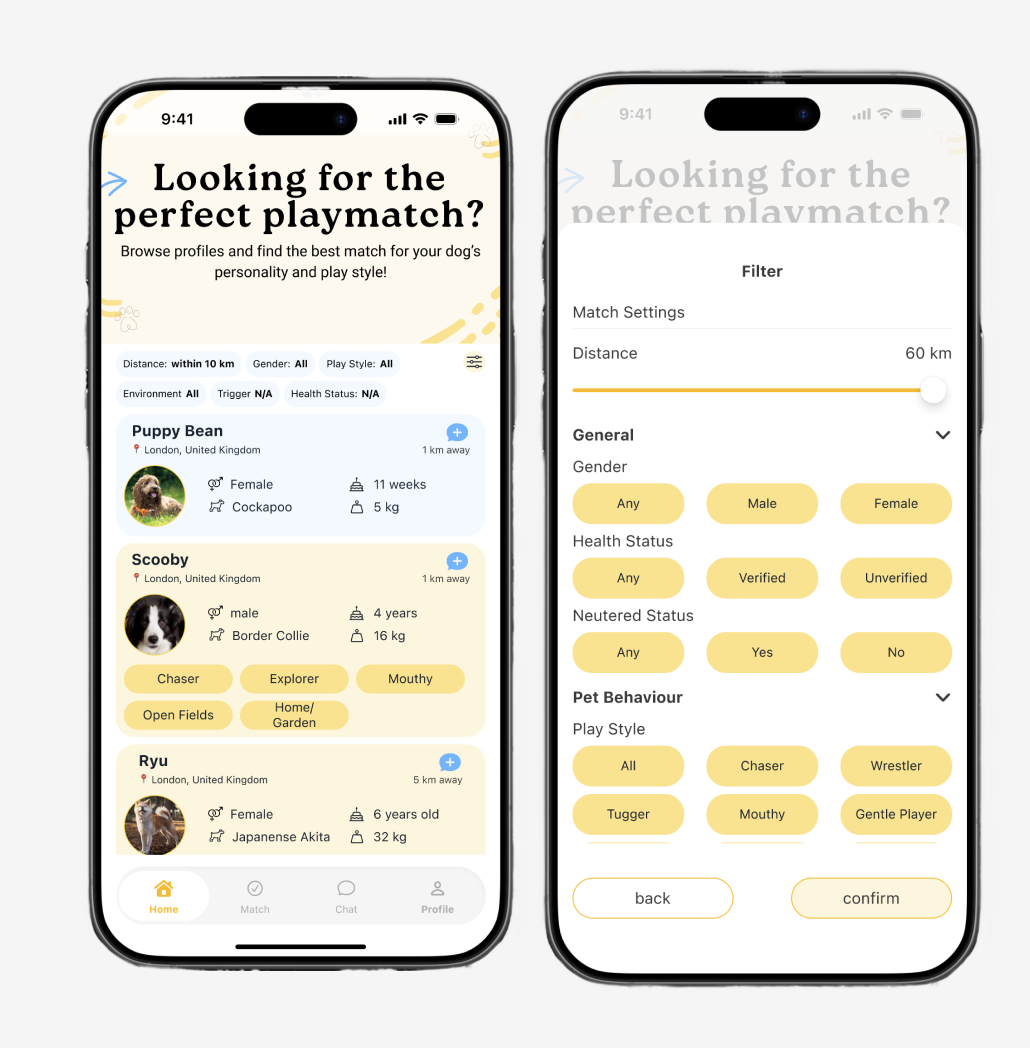
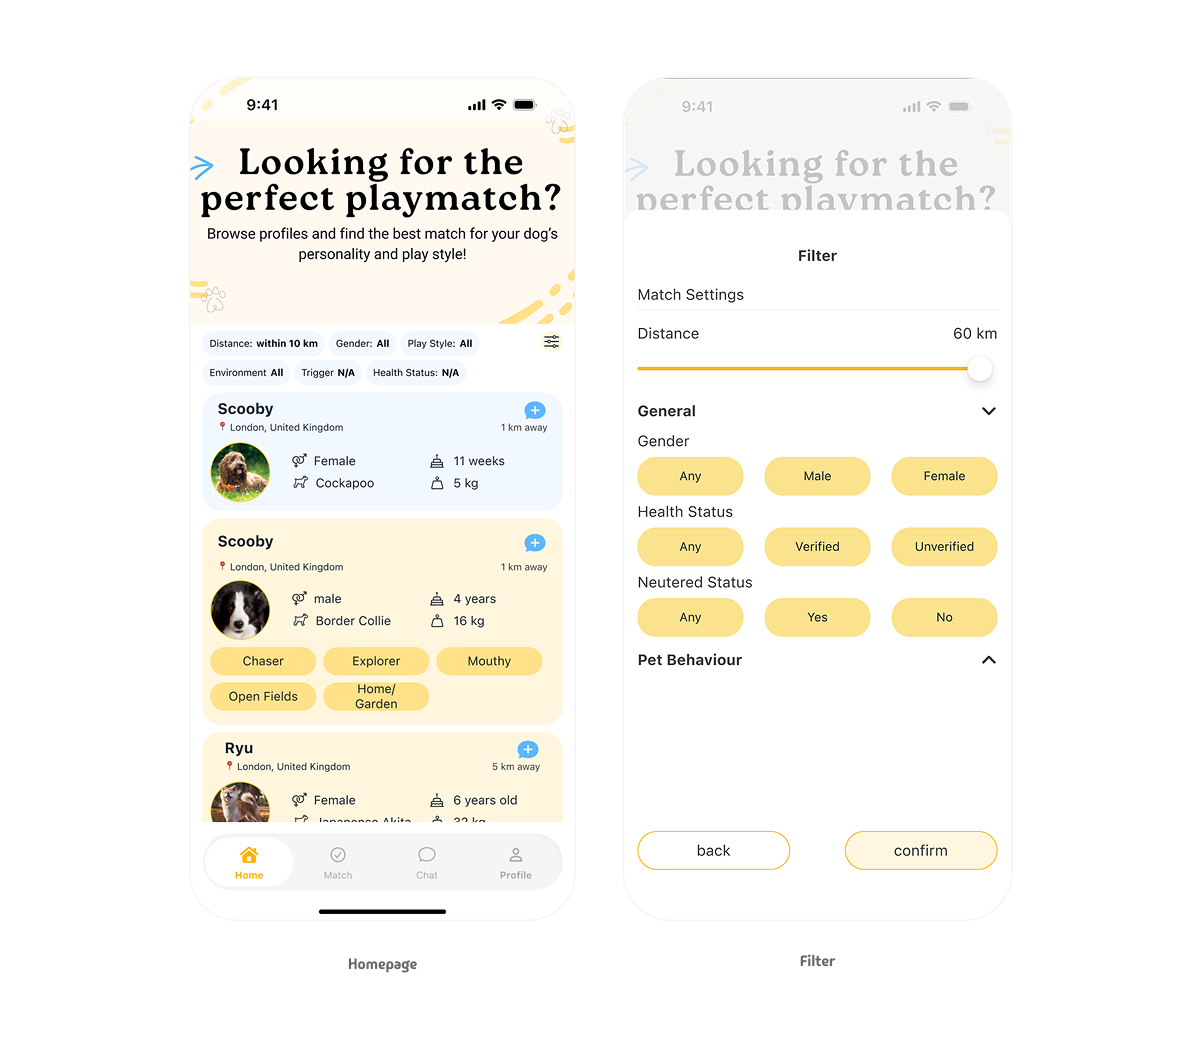
improved images consistency

Changed region(s): [[0.0621, 0.0611, 0.9631, 0.9466], [0.7146, 0.2443, 0.7456, 0.2748], [0.6214, 0.855, 0.6524, 0.8855]]

diff --git a/src/pages/projects/Sopup.jsx b/src/pages/projects/Sopup.jsx
@@ -150,7 +150,7 @@ const SOPUP_DESIGN_PROCESS = {
   statsSection: {
     title: "Validating with real dog owners",
     intro:
-      "Before development wrapped, the prototype was tested with 7 dog owners via a structured survey. 42.9% had used a similar app before and 57.1% hadn't, giving a mix of newcomer and experienced feedback. This ran on the Figma prototype, separate from the TestFlight testing further down the page, which validated the built app rather than the design.",
+      "Before development wrapped, the prototype was tested with 18 dog owners via a structured survey. 42.9% had used a similar app before and 57.1% hadn't, giving a mix of newcomer and experienced feedback. This ran on the Figma prototype, separate from the TestFlight testing further down the page, which validated the built app rather than the design.",
     stats: [
       {
         value: "85.7%",
@@ -901,7 +901,16 @@ function Sopup() {
         title="Explore SoPup"
         subtitle="Try the prototype, read the code, or see more work"
         buttons={[
+          ...SOPUP_HERO.figmaLinks.map((link) => ({
+            label: `${link.label}`,
+            href: link.href,
+            variant: "figma",
+            icon: "figma",
+            external: true,
+          })),
+          
           { label: "✈ TestFlight", href: "https://testflight.apple.com/join/duM8Wv9Q", variant: "solid", external: true },
+          
           { label: "GitHub →", href: "https://github.com/MpmookR/So_Pup/tree/main/So_Pup", variant: "outline-light", external: true },
           { label: "← All Projects", href: "/portfolio", variant: "ghost" },
         ]}

diff --git a/src/components/caseStudy/CaseLink.jsx b/src/components/caseStudy/CaseLink.jsx
@@ -1,20 +1,4 @@
-const GithubIcon = () => (
-  <svg width="16" height="16" viewBox="0 0 24 24" fill="currentColor">
-    <path d="M12 0C5.37 0 0 5.37 0 12c0 5.3 3.438 9.8 8.205 11.385.6.113.82-.258.82-.577 0-.285-.01-1.04-.015-2.04-3.338.724-4.042-1.61-4.042-1.61-.546-1.387-1.333-1.756-1.333-1.756-1.09-.745.083-.729.083-.729 1.205.085 1.84 1.238 1.84 1.238 1.07 1.834 2.807 1.304 3.492.997.108-.775.418-1.305.762-1.604-2.665-.305-5.467-1.334-5.467-5.931 0-1.31.465-2.381 1.235-3.221-.135-.303-.54-1.523.105-3.176 0 0 1.005-.322 3.3 1.23.96-.267 1.98-.399 3-.405 1.02.006 2.04.138 3 .405 2.28-1.552 3.285-1.23 3.285-1.23.645 1.653.24 2.873.12 3.176.765.84 1.23 1.911 1.23 3.221 0 4.609-2.807 5.624-5.479 5.921.43.372.823 1.102.823 2.222 0 1.606-.015 2.896-.015 3.286 0 .315.21.69.825.57C20.565 21.795 24 17.295 24 12c0-6.63-5.37-12-12-12z" />
-  </svg>
-);
-
-const FigmaIcon = () => (
-  <svg width="15" height="15" viewBox="0 0 38 57" fill="none">
-    <path d="M19 28.5A9.5 9.5 0 1 1 28.5 19v19A9.5 9.5 0 0 1 9.5 28.5z" fill="#0ACF83" />
-    <rect x="0" y="0" width="19" height="19" rx="9.5" fill="#FF7262" />
-    <rect x="19" y="0" width="19" height="19" rx="9.5" fill="#FF7262" />
-    <rect x="0" y="19" width="19" height="19" fill="#A259FF" />
-    <rect x="0" y="38" width="19" height="19" rx="9.5" fill="#1ABCFE" />
-  </svg>
-);
-
-const ICONS = { github: GithubIcon, figma: FigmaIcon };
+import { ICONS } from "./icons";
 
 function CaseLink({ href, label, variant = "outline", icon }) {
   const Icon = icon ? ICONS[icon] : null;

diff --git a/src/components/caseStudy/icons.jsx b/src/components/caseStudy/icons.jsx
@@ -1,0 +1,17 @@
+const GithubIcon = () => (
+  <svg width="16" height="16" viewBox="0 0 24 24" fill="currentColor">
+    <path d="M12 0C5.37 0 0 5.37 0 12c0 5.3 3.438 9.8 8.205 11.385.6.113.82-.258.82-.577 0-.285-.01-1.04-.015-2.04-3.338.724-4.042-1.61-4.042-1.61-.546-1.387-1.333-1.756-1.333-1.756-1.09-.745.083-.729.083-.729 1.205.085 1.84 1.238 1.84 1.238 1.07 1.834 2.807 1.304 3.492.997.108-.775.418-1.305.762-1.604-2.665-.305-5.467-1.334-5.467-5.931 0-1.31.465-2.381 1.235-3.221-.135-.303-.54-1.523.105-3.176 0 0 1.005-.322 3.3 1.23.96-.267 1.98-.399 3-.405 1.02.006 2.04.138 3 .405 2.28-1.552 3.285-1.23 3.285-1.23.645 1.653.24 2.873.12 3.176.765.84 1.23 1.911 1.23 3.221 0 4.609-2.807 5.624-5.479 5.921.43.372.823 1.102.823 2.222 0 1.606-.015 2.896-.015 3.286 0 .315.21.69.825.57C20.565 21.795 24 17.295 24 12c0-6.63-5.37-12-12-12z" />
+  </svg>
+);
+
+const FigmaIcon = () => (
+  <svg width="15" height="15" viewBox="0 0 38 57" fill="none">
+    <path d="M19 28.5A9.5 9.5 0 1 1 28.5 19v19A9.5 9.5 0 0 1 9.5 28.5z" fill="#0ACF83" />
+    <rect x="0" y="0" width="19" height="19" rx="9.5" fill="#FF7262" />
+    <rect x="19" y="0" width="19" height="19" rx="9.5" fill="#FF7262" />
+    <rect x="0" y="19" width="19" height="19" fill="#A259FF" />
+    <rect x="0" y="38" width="19" height="19" rx="9.5" fill="#1ABCFE" />
+  </svg>
+);
+
+export const ICONS = { github: GithubIcon, figma: FigmaIcon };

diff --git a/src/components/caseStudy/CaseStudyCTA.jsx b/src/components/caseStudy/CaseStudyCTA.jsx
@@ -1,3 +1,4 @@
+import { ICONS } from "./icons";
 import "../../css/caseStudy.css";
 
 function CaseStudyCTA({ title, subtitle, buttons = [] }) {
@@ -6,16 +7,20 @@ function CaseStudyCTA({ title, subtitle, buttons = [] }) {
       <h2 className="cs-cta-title">{title}</h2>
       {subtitle && <p className="cs-cta-sub">{subtitle}</p>}
       <div className="cs-cta-buttons">
-        {buttons.map(({ label, href, variant = "ghost", external }) => (
-          <a
-            key={label}
-            href={href}
-            className={`cs-btn cs-btn--${variant}`}
-            {...(external ? { target: "_blank", rel: "noopener noreferrer" } : {})}
-          >
-            {label}
-          </a>
-        ))}
+        {buttons.map(({ label, href, variant = "ghost", external, icon }) => {
+          const Icon = icon ? ICONS[icon] : null;
+          return (
+            <a
+              key={label}
+              href={href}
+              className={`cs-btn cs-btn--${variant}`}
+              {...(external ? { target: "_blank", rel: "noopener noreferrer" } : {})}
+            >
+              {Icon && <Icon />}
+              {label}
+            </a>
+          );
+        })}
       </div>
     </section>
   );

diff --git a/src/css/sopup.css b/src/css/sopup.css
@@ -118,13 +118,17 @@
   font-size: 15px;
   line-height: 1.75;
   color: #444;
-  max-width: 620px;
+  max-width: 100%;
   margin-bottom: 24px;
 }
 .sp-body--center {
   margin-left: auto;
   margin-right: auto;
   text-align: center;
+}
+
+.body--iteration {
+  max-width: 95%;
 }
 
 .sp-quote {
@@ -527,6 +531,7 @@
   border-radius: 20px;
   padding: 28px 24px;
   border: 2px solid var(--color-lime);
+  background: var(--color-white);
 }
 
 .sp-arch-icon {

diff --git a/src/css/caseStudy.css b/src/css/caseStudy.css
@@ -278,9 +278,8 @@
   font-size: 14px;
   line-height: 1.75;
   color: #444;
-  max-width: 680px;
+  max-width: 100%;
   margin: 0 auto 32px;
-  text-align: center;
 }
 
 /* optional green callout banner */

diff --git a/src/css/caseStudyDesignProcess.css b/src/css/caseStudyDesignProcess.css
@@ -42,7 +42,7 @@
   font-size: 15px;
   line-height: 1.75;
   color: #444;
-  max-width: 700px;
+  max-width: 100%;
   margin: 0 auto 24px;
   text-align: center;
 }
